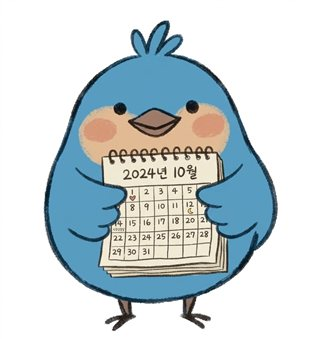
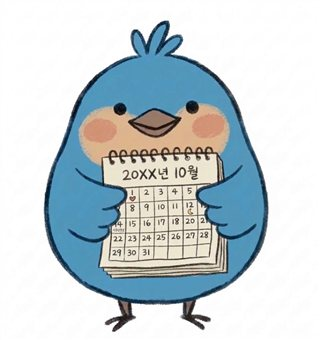
마감 달력 그림 교체(연도 20XX), 일정표: 겨울 프로필 12/1~12/26

diff --git a/_schedule.md b/_schedule.md
@@ -60,6 +60,8 @@
 | 11/30(월) | 문화누리카드 발급 마감 | — |
 | 12/1(화) | 문화누리 도장·마감 안내 / 근로장려금 기한 후 신청 마감일 | Claude |
 | 11월 말 | 월간 점검: 쓰레드 3개 운영 숫자, 이모지 효과, 채널별 유입(GA4) · 네이버 애드포스트 후보 비교: 지원길(jiwongil) vs 나혼세 네이버 블로그 월 조회수(각 블로그 통계, 사용자 화면) → 많은 쪽으로 신청(네이버 계정당 사업자 1개라 하나만) | Claude |
+| 12/1(화) | 겨울 프로필로 교체: 산타모자 지원길(assets/brand/char/산타모자 지원길.jpg) → 사이트 로고·인스타·쓰레드·네이버 블로그 프로필(사이트는 Claude, SNS·네이버는 사용자). 원형으로 잘라 보기 먼저 확인 | Claude · 사용자 |
+| 12/26(토) | 겨울 프로필 원래대로(지도 든 원형 그림 logo-circle·profile-circle) | Claude · 사용자 |
 | 12/10 전후 | 인스타 토큰 갱신 (`bash _tools/insta_upload.sh refresh`, 10/21 생성 → 12/20 전후 만료) | Claude |
 | 12/13 전후 | 쓰레드 토큰 갱신 (10/24 생성) | Claude |
 | 12월 | 2027 고시 나오는 대로 갱신: 생계급여 → 기초연금·장애인연금 → 긴급복지(2027.1부터 현장 재량 30만 원 우선 지원 — 정책브리핑 11/10, 복지부 보도자료 원문으로 확인 후 반영, 11/12 사용자 결정) → 실업급여·육아휴직 → 생활비 허브 | Claude |
